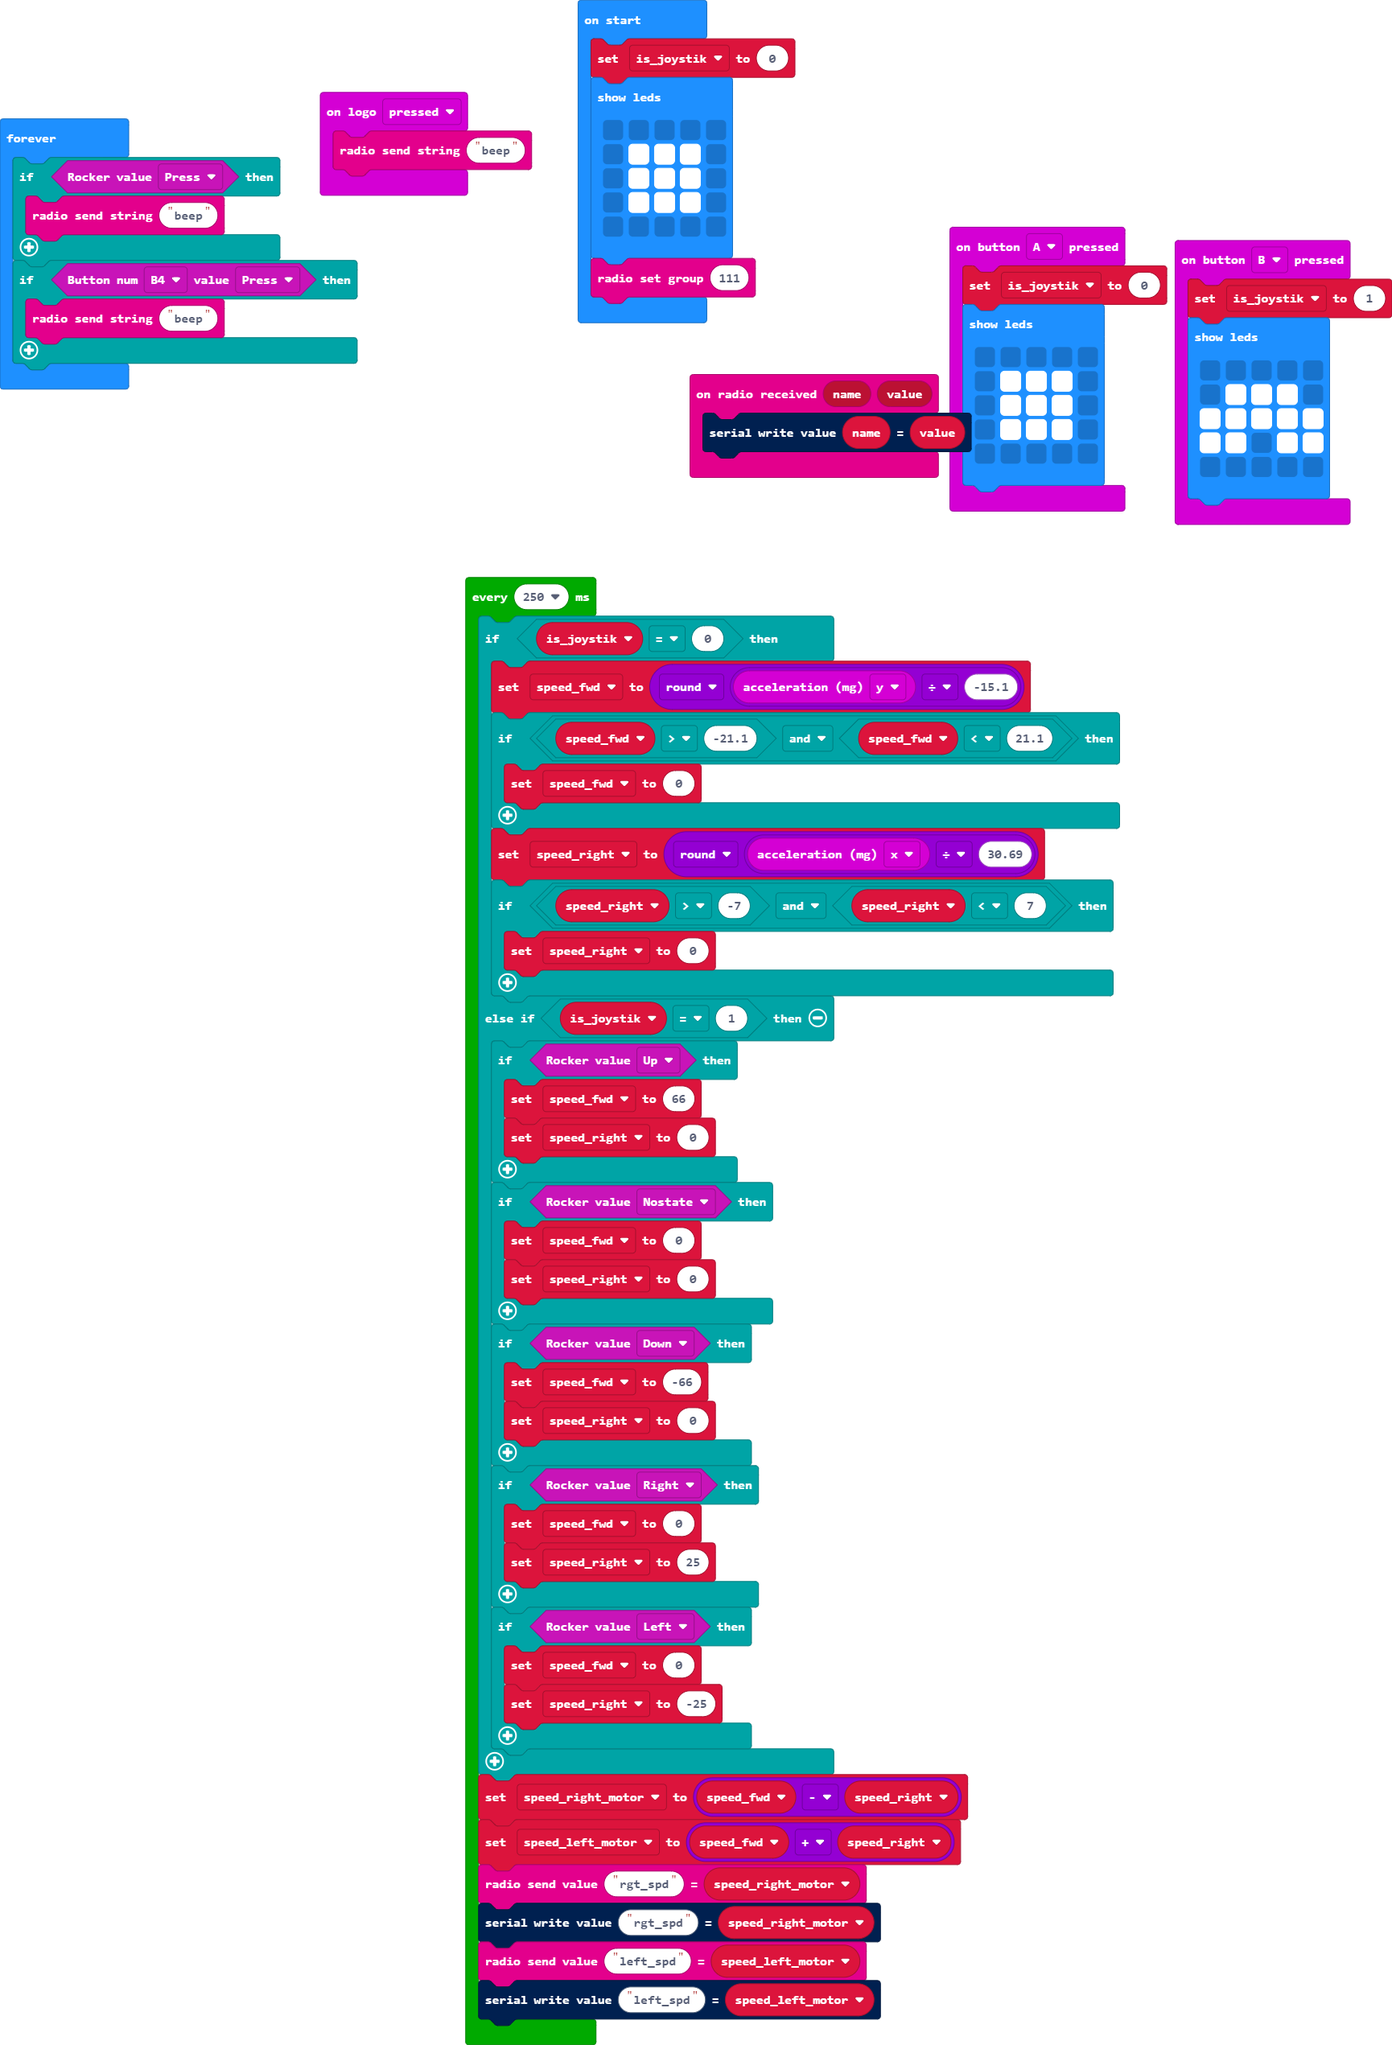
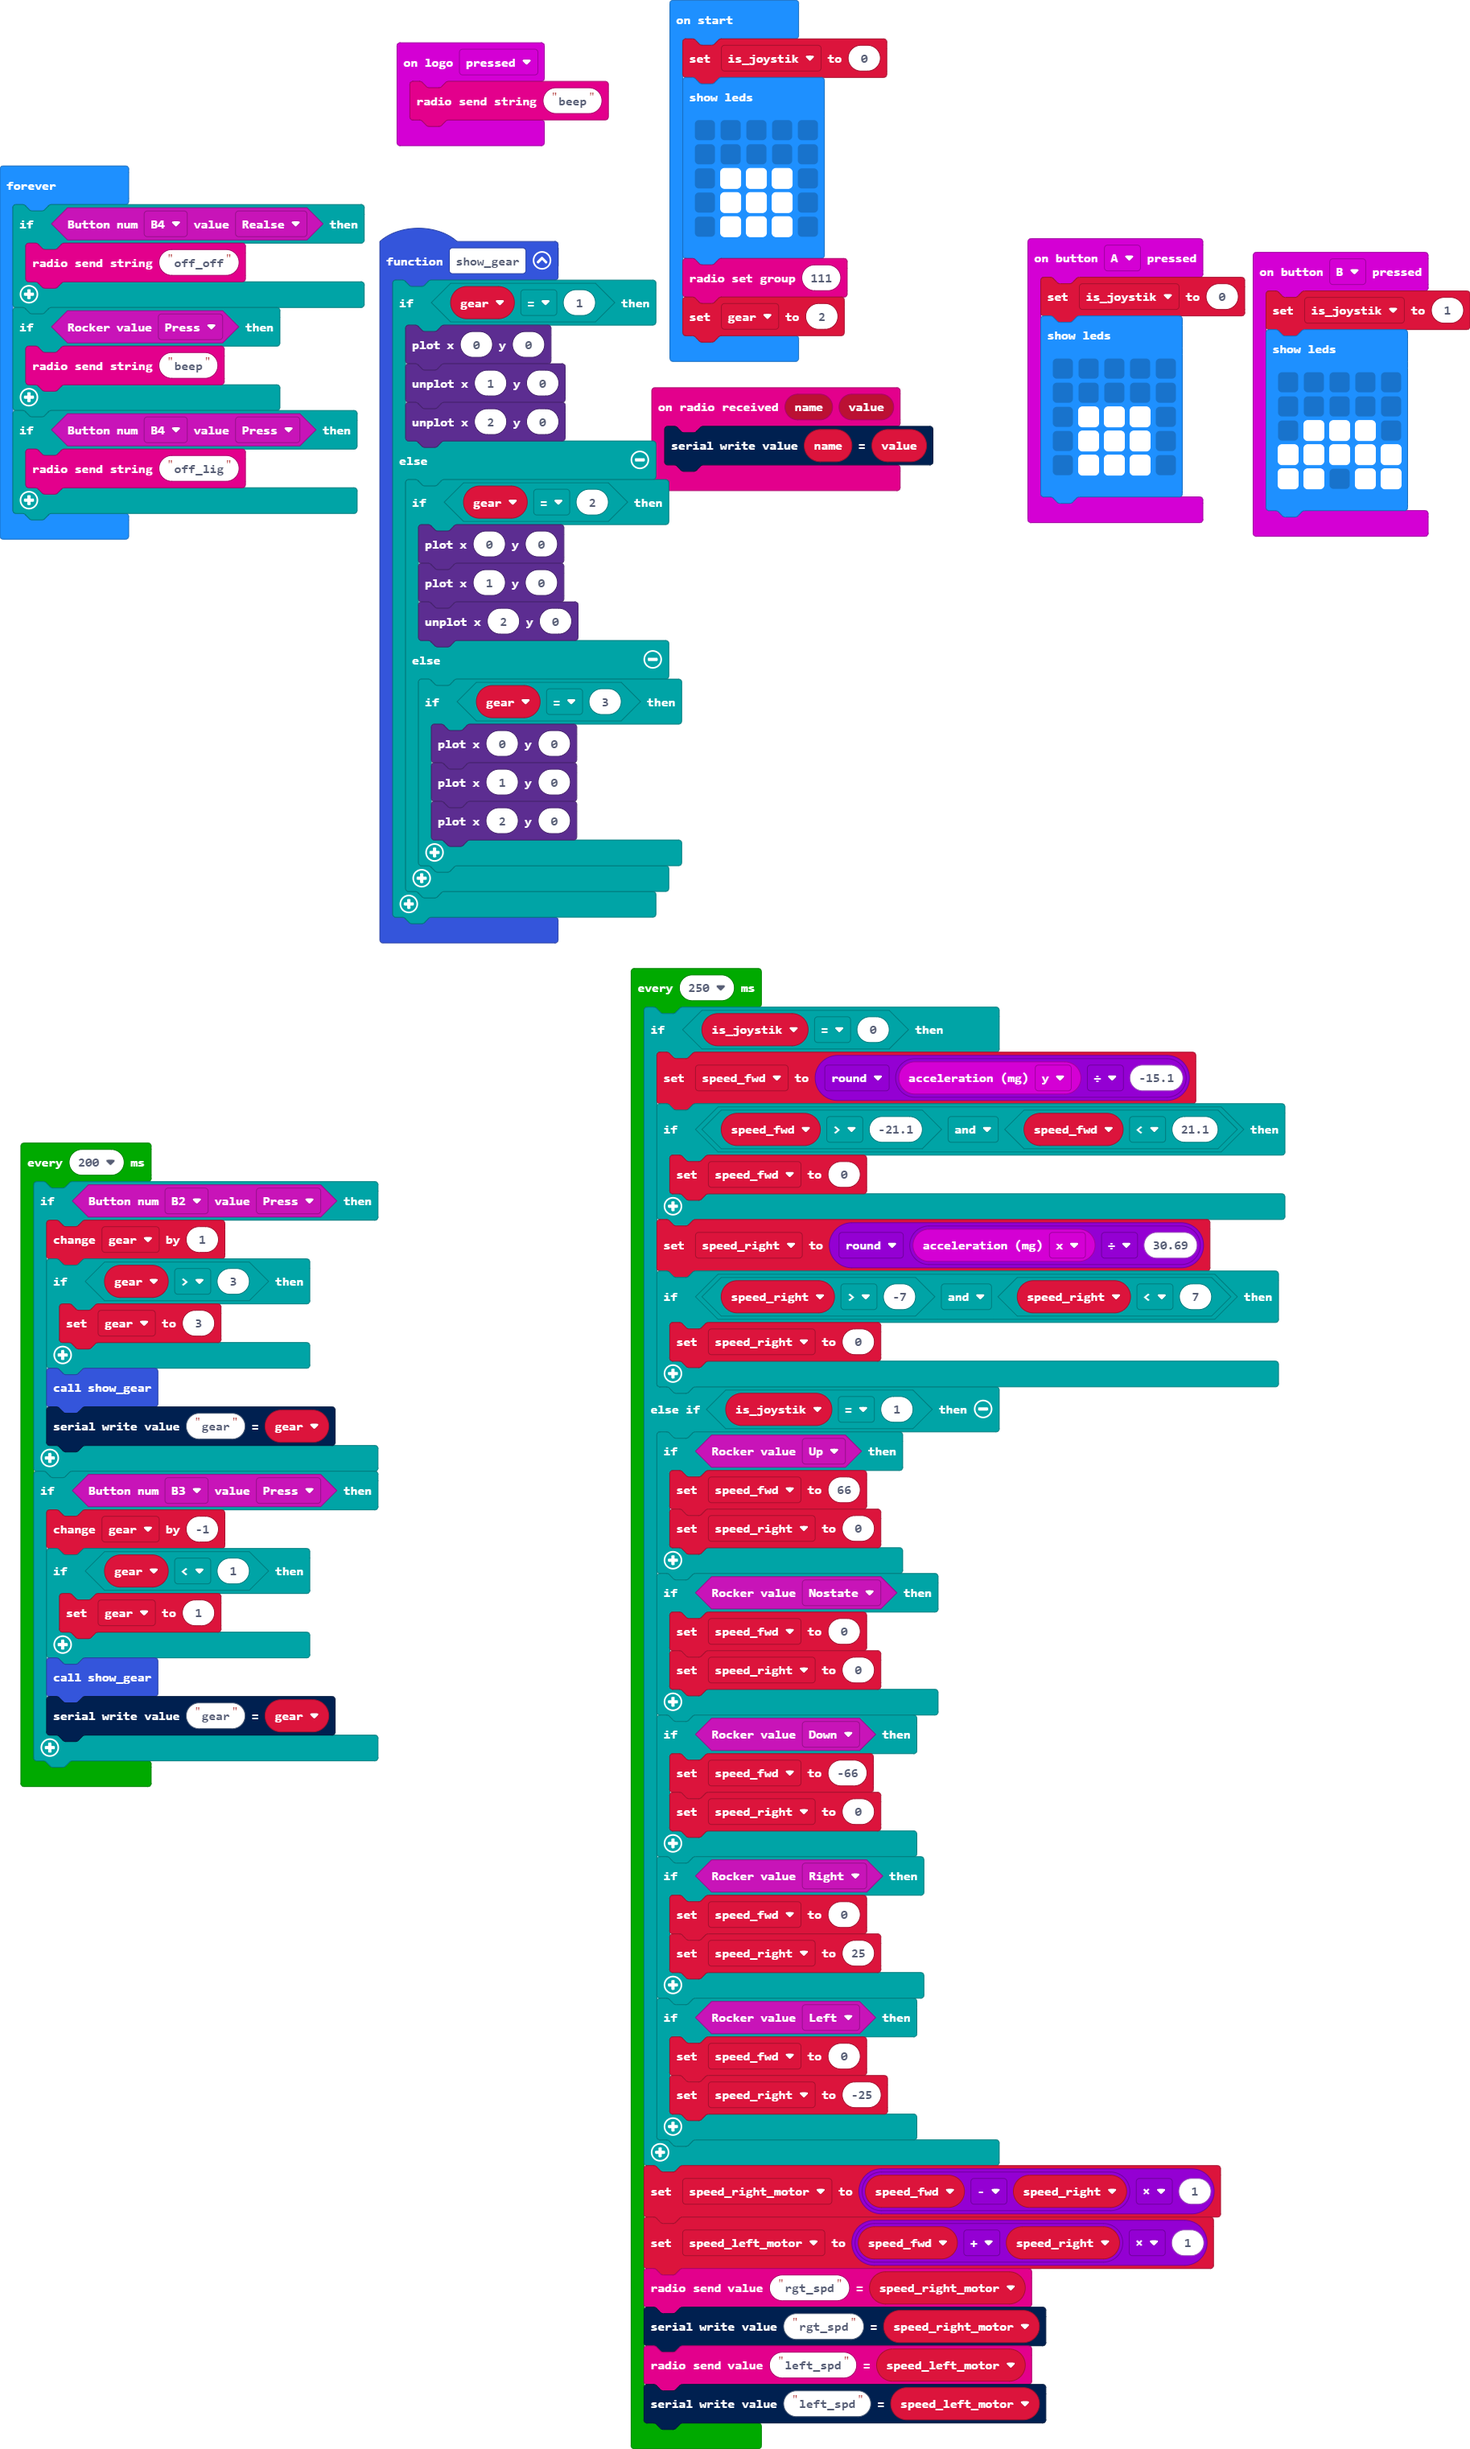
v1.2 - light on/off - WIP: gear

diff --git a/main.ts b/main.ts
@@ -2,22 +2,41 @@ input.onButtonPressed(Button.A, function () {
     is_joystik = 0
     basic.showLeds(`
         . . . . .
-        . # # # .
-        . # # # .
-        . # # # .
         . . . . .
+        . # # # .
+        . # # # .
+        . # # # .
         `)
 })
 input.onButtonPressed(Button.B, function () {
     is_joystik = 1
     basic.showLeds(`
         . . . . .
+        . . . . .
         . # # # .
         # # # # #
         # # . # #
-        . . . . .
         `)
 })
+function show_gear () {
+    if (gear == 1) {
+        led.plot(0, 0)
+        led.unplot(1, 0)
+        led.unplot(2, 0)
+    } else {
+        if (gear == 2) {
+            led.plot(0, 0)
+            led.plot(1, 0)
+            led.unplot(2, 0)
+        } else {
+            if (gear == 3) {
+                led.plot(0, 0)
+                led.plot(1, 0)
+                led.plot(2, 0)
+            }
+        }
+    }
+}
 radio.onReceivedValue(function (name, value) {
     serial.writeValue(name, value)
 })
@@ -28,22 +47,27 @@ let speed_left_motor = 0
 let speed_right_motor = 0
 let speed_right = 0
 let speed_fwd = 0
+let gear = 0
 let is_joystik = 0
 is_joystik = 0
 basic.showLeds(`
     . . . . .
-    . # # # .
-    . # # # .
-    . # # # .
     . . . . .
+    . # # # .
+    . # # # .
+    . # # # .
     `)
 radio.setGroup(111)
+gear = 2
 basic.forever(function () {
+    if (GHBit.Button(GHBit.enButton.B4, GHBit.enButtonState.Realse)) {
+        radio.sendString("off_off")
+    }
     if (GHBit.Rocker(GHBit.enRocker.Press)) {
         radio.sendString("beep")
     }
     if (GHBit.Button(GHBit.enButton.B4, GHBit.enButtonState.Press)) {
-        radio.sendString("beep")
+        radio.sendString("off_lig")
     }
 })
 loops.everyInterval(250, function () {
@@ -78,10 +102,28 @@ loops.everyInterval(250, function () {
             speed_right = -25
         }
     }
-    speed_right_motor = speed_fwd - speed_right
-    speed_left_motor = speed_fwd + speed_right
+    speed_right_motor = (speed_fwd - speed_right) * 1
+    speed_left_motor = (speed_fwd + speed_right) * 1
     radio.sendValue("rgt_spd", speed_right_motor)
     serial.writeValue("rgt_spd", speed_right_motor)
     radio.sendValue("left_spd", speed_left_motor)
     serial.writeValue("left_spd", speed_left_motor)
+})
+loops.everyInterval(200, function () {
+    if (GHBit.Button(GHBit.enButton.B2, GHBit.enButtonState.Press)) {
+        gear += 1
+        if (gear > 3) {
+            gear = 3
+        }
+        show_gear()
+        serial.writeValue("gear", gear)
+    }
+    if (GHBit.Button(GHBit.enButton.B3, GHBit.enButtonState.Press)) {
+        gear += -1
+        if (gear < 1) {
+            gear = 1
+        }
+        show_gear()
+        serial.writeValue("gear", gear)
+    }
 })
